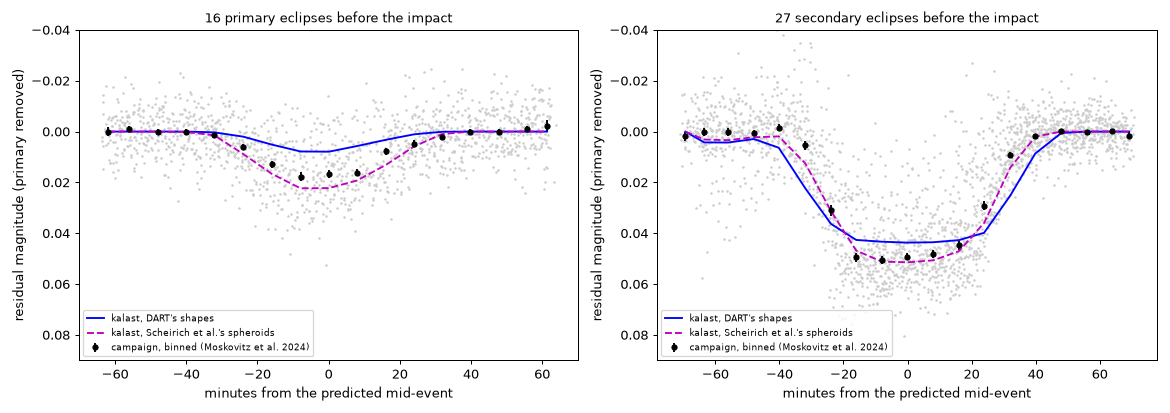
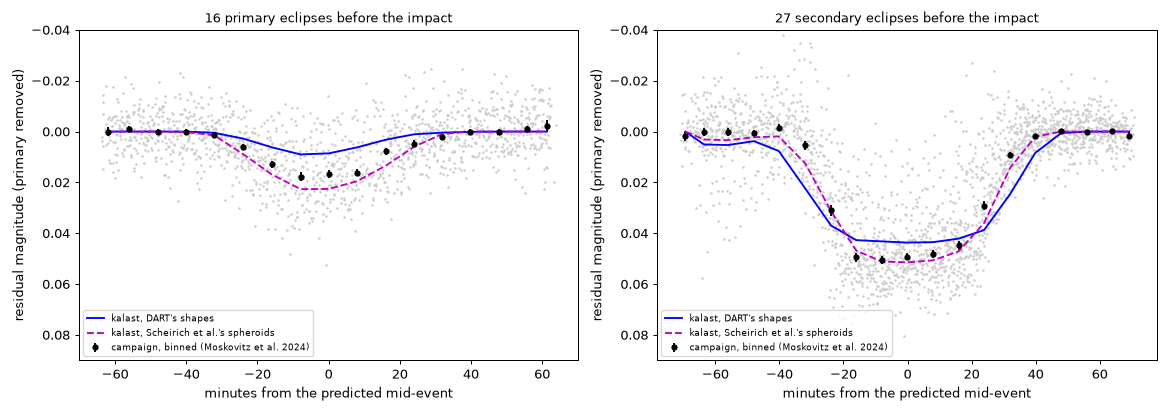
notes: the Didymos campaign table and Eli's nights re-run with Didymos's true period and the clipping fix -- DART's primary eclipses 1.48 of the data's depth (1.32 before), the fix worth up to 0.026 mag after the impact, 0.003 before; the spheroids' 08-16 secondary eclipse 0.047, not 0.042

diff --git a/notes/2026-10-15_didymos_lightcurves/README.md b/notes/2026-10-15_didymos_lightcurves/README.md
@@ -53,9 +53,10 @@ July 2022 to 2025, from their nominal pre- and post-impact orbits.
   model both bodies as oblate spheroids with DART's axis ratios
   (Didymos 1.369, Dimorphos 1.504 before the impact, a sphere after) under
   Lommel-Seeliger, D2/D1 = 0.223 (0.202 after). The 2022-08-16 primary
-  eclipse: 0.029 mag, 19:48 to 20:52, against their 0.027, 19:45 to 20:51;
-  the secondary eclipse 0.042 against 0.043. Hapke for Lommel-Seeliger
-  changes it by 1-2 mmag.
+  eclipse: 0.029 mag, 19:50 to 20:49, against their 0.027, 19:45 to 20:51;
+  the secondary eclipse 0.047, 13:52 to 14:58, against their 0.043, 13:48
+  to 14:57 (0.042 was written here first; no run gave it). Hapke for
+  Lommel-Seeliger changes it by 1-2 mmag.
 
 ## Against the 2022 campaign's photometry
 
@@ -63,13 +64,19 @@ Moskovitz et al. (2024, PSJ 5:35), Table 4: 38,532 points from 28
 telescopes, with the primary's rotation removed (`Resmag`); public. Its 44
 runs before the impact (10,493 points) cover 49 events. Each simulated with
 both models at the data's light-time-corrected epochs; each model's depth
-scaled to fit the data, pooled by kind:
+scaled to fit the data, pooled by kind (`campaign_table.py`):
 
 | | events | data / DART's shapes | data / spheroids | rms: DART, spheroids, none |
 |---|---|---|---|---|
-| primary eclipses | 16 | 1.32 | 0.75 | 0.0107, 0.0097, 0.0121 |
-| secondary eclipses | 27 | 0.89 | 0.90 | 0.0150, 0.0120, 0.0301 |
-| secondary occultations | 5 | 0.65 | 0.76 | 0.0157, 0.0131, 0.0210 |
+| primary eclipses | 16 | 1.48 | 0.74 | 0.0102, 0.0097, 0.0123 |
+| secondary eclipses | 27 | 0.88 | 0.90 | 0.0152, 0.0120, 0.0300 |
+| secondary occultations | 5 | 0.64 | 0.76 | 0.0164, 0.0131, 0.0218 |
+
+Recomputed on 2026-10-16. The first table (1.32 and 0.75 for the primary
+eclipses) had been run before Didymos turned at its true period, and with
+`lightcurve.flux` cutting the primary's partial events short
+(`2026-10-16_lightcurve_piece_cap/`); the period moved DART's numbers, the
+clipping hardly these.
 
 ![The campaign's events before the impact, stacked, beside kalast's two models](campaign_events.png)
 
@@ -158,10 +165,10 @@ the events, in units of the stated errors (`events.csv`):
 
 - **The events show in Eli's data** where a model lowers chi:
   2022-09-14 TS 1.32 -> 0.63, 09-21 TS 1.65 -> 0.61, 08-24 LM 1.46 -> 1.11,
-  09-30 TN 3.94 -> 2.11, 11-21 TN 0.54 -> 0.28, 11-22 TN 5.58 -> 4.43,
+  09-30 TN 3.94 -> 2.11, 11-21 TN 0.54 -> 0.28, 11-22 TN 5.58 -> 4.37,
   12-18/19 TN 0.26-0.29 -> 0.11-0.15, 2023-01-14/16/17 TN about halved.
 - **Primary eclipses** (09-04, 09-05, 09-12 TS): the spheroids a little
-  better than DART's shape (2.32 -> 1.93; 0.88 -> 0.77; 1.00 -> 0.92).
+  better than DART's shape (2.32 -> 1.92; 0.88 -> 0.78; 1.00 -> 0.92).
 - **Three weeks after the impact** (09-28 to 10-21) the models are worse
   than no event: the events shallower than predicted, the ejecta's
   dilution Moskovitz et al. measure.

diff --git a/CHANGELOG.md b/CHANGELOG.md
@@ -21,7 +21,7 @@ released, and the gate refuses the tag until it has.
 - `Maplet.solve` compares an image much finer than the grid triangle by triangle, as the maplet is drawn, rather than smoothed to its points (`triangles=0.4`, the share of a spacing a pixel must be under): on comet 67P beside Abydos, the held-out images' mean correlation 0.41 to 0.45. And a step is taken only where it lowers the cost, the shadows' agreement included; it was left out of the trial.
 - `kalast.mesh.Mesh.from_arrays(positions, indices)` makes a mesh of arrays, for `sim.add_mesh`: a shape model with tiles in it, which no file need hold.
 - `kalast.shape` derives a surface's relief finer than its shape model from the images that see it: `Maplet.from_surface` lays a grid of heights over a patch of the model, and `solve` registers every image to it and fits the heights and the albedo to what every image shows, lit or in shadow -- the shading through the body's scattering law, the cast shadows and the parallax -- held to the model at long wavelengths; `direct=False` reads each point's slopes from its shading instead, by stereophotoclinometry. `reach` lets an image's registration search metres on the ground, as far as a spacecraft's pointing is off; each image weighs by its Sun's incidence, as SPC weighs them (`incidence_weight`), and by its own `View(weight=...)`. `View` takes an image and its camera; `render` draws a maplet as an image would show it; `mesh` gives it to draw.
-- `kalast.lightcurve.flux` is exact in a binary's events where the smaller body's facets fall on the larger's, the primary eclipsed or occulted by the secondary: a facet under many smaller ones came out partly lit, so on Didymos such events came out up to a fifth too shallow in their partial phases, and jumped by 3 mmag from one epoch to the next. `flux` is 2 to 11 times faster, and `flux`, `lightcurve` and `shadowing.lit_fractions` release Python's lock, so a script's threads compute epochs at once.
+- `kalast.lightcurve.flux` is exact in a binary's events where the smaller body's facets fall on the larger's, the primary eclipsed or occulted by the secondary: a facet under many smaller ones came out partly lit, so on Didymos after its 2022 impact such events were up to 0.026 mag, two fifths of their depth, too shallow at an epoch, and jumped by 3 mmag from one epoch to the next. `flux` is 2 to 11 times faster, and `flux`, `lightcurve` and `shadowing.lit_fractions` release Python's lock, so a script's threads compute epochs at once.
 
 ## v0.5.14
 

diff --git a/notes/2026-10-16_lightcurve_piece_cap/README.md b/notes/2026-10-16_lightcurve_piece_cap/README.md
@@ -69,11 +69,21 @@ before was 0.008 to 0.013 mag shallow, 13 to 23 %.
 
 ## What it changes
 
-- **The Didymos work of 2026-10-15.** The secondary events and Didymos's
-  rotation are as they were; the primary events are a few percent deeper at
-  their middle, up to a fifth in their partial phases, and smooth. Being
-  re-run: the campaign's comparison, Eli's nights and their events, the
-  184 days, and the comparison with Scheirich et al.'s table.
+- **The Didymos work of 2026-10-15** (`2026-10-15_didymos_lightcurves/`),
+  re-run. Eli's 45 nights, the drop's largest change at an epoch where an
+  event is on:
+
+  | | DART's shapes | spheroids |
+  |---|---|---|
+  | 15 nights before the impact | 0.003 mag | 0.001 |
+  | 29 nights after | 0.026 mag (2022-11-22), up to 42 % of the drop | 0.006, 14 % |
+
+  After the impact the phase angle was 50 to 75 deg and Dimorphos's shadow
+  long across Didymos: more of its facets under it, each under more of
+  Dimorphos's. The secondary events and Didymos's rotation are as they
+  were. Chi in the events moved by 0.01 to 0.3 (`events.csv`); what the
+  notes read off it stands. The campaign's comparison, before the impact,
+  moved by the true period it had been run without, hardly by this.
 - **Nothing else.** The clipping serves `lightcurve` and
   `kalast._rs.shadowing.lit_fractions` only; the thermophysical model's
   shadows are the GPU's.
